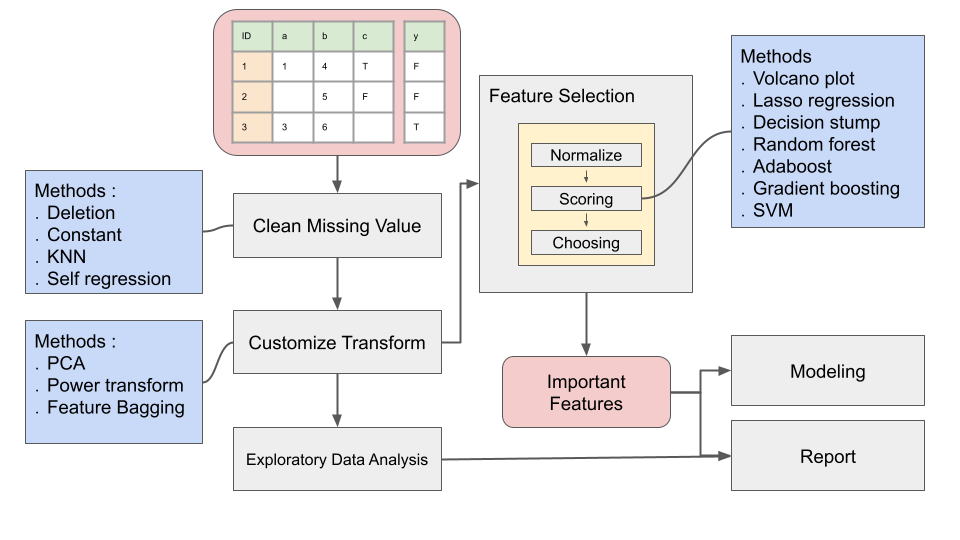
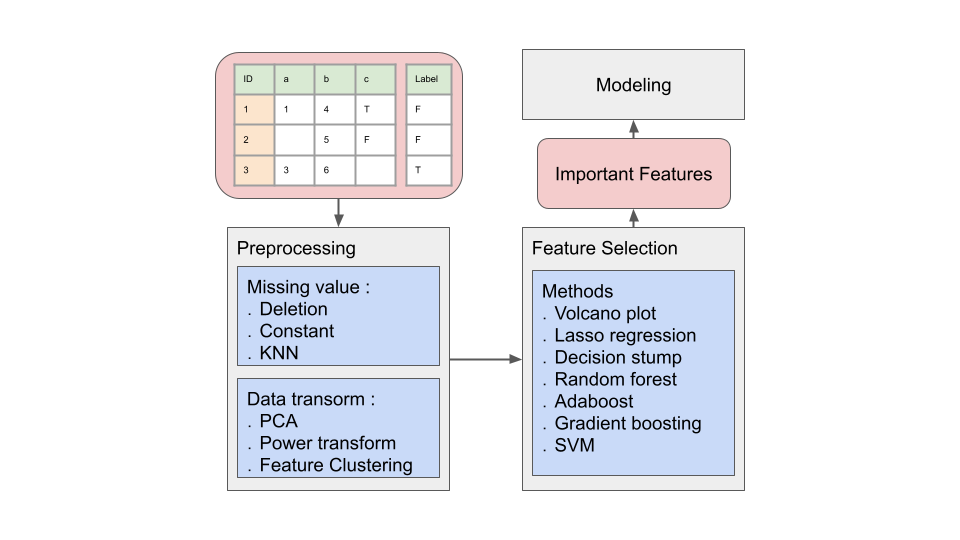
v0.55.1

diff --git a/README.md b/README.md
@@ -1,6 +1,5 @@
 # Overview
-(麻煩用中文寫三百字引言,介紹軟體目的)
-This package aims to help analysis biomedical data using ML method in python.
+This package aims to help analysis biomedical data using ML method in python. 
 
 ![image](./documents/images/workflow/auto_selection_workflow.png) 
 
@@ -45,45 +44,46 @@ The input data should be tabular and placed in the ./input folder. We accept .cs
 
 [API](./documents/API/index.html)
 
-### 1. Missing value imputation
+### 1. Missing value preprocess
 |        ID         |        Option         |  Definition |
 |---------------------|----------------|------------------------------|
-|  1 | Deletion              | Delete the features which are too empty     |
-|  2 | Imputation with a constant value  | Impute missing value with a constant value. For example, 0 or feature mean |
-|  3 | Imputation using K-NN algorithm        | Impute missing value with the mean/median of k nearest samples |
-|  4 | Self regression        |  Training a self regression model to predict the missing value  |
+|  1 | Deletion              | Remove the features that are too empty.     |
+|  2 | Imputation with a constant value  | Impute missing values with a constant value, such as 0 or the feature mean. |
+|  3 | Imputation using K-NN algorithm        | Impute missing values with the mean or median of the k nearest samples. |
 
 
 ### 2. Data transformation
 |        ID         |        Option         |  Definition |
 |---------------------|----------------|------------------------------|
-|  1 | PCA              | Principal component transform    |  |
-|  2 | Power transofmation  | Box-Cox transform or yeo-johnson transform to make data more gaussian-like |   |
-|  3 | Feature bagging        | Put similar features into a bag  |  |
+|  1 | PCA              | Principal component transform.    |  |
+|  2 | Power transform  | To make data more Gaussian-like, you can use either Box-Cox transform or Yeo-Johnson transform. |   |
+|  3 | Feature clustering        | Group similar features into a cluster.  |  |
 
 
 ### 3. Feature Selection
 |        ID         |        Option         |  Definition |
 |---------------------|----------------|------------------------------|
-|  1 | Volcano plot  | Seleting by group p-value or fold change   |  |
-|  2 | Lasso regression | Seleting by L1 penalty |   |
+|  1 | Volcano plot  | Seleting by group p-value and fold change   |  |
+|  2 | Lasso regression | Seleting by Linear models with L1 penalty |   |
 |  3 | Decision stump        | Seleting by 1-layer decision tree  |  |
-|  4 | Random Forest        | Seleting by Gini impuracy or permutation importance over a Random Forest |  |
-|  5 | AdaBoost        | Seleting by Gini impuracy over a AdaBoost model  |  |
-|  6 | Gradient boosting        | Seleting by Gini impuracy over a Gradient boosting such as XGboost or LightGBM  |  |
-|  7 | SVM        | Selectiing by support vector of a trained support vector machine |  |
+|  4 | Random Forest        | Seleting by Gini impurity or permutation importance over a Random Forest |  |
+|  5 | AdaBoost        | Seleting by Gini impurity over a AdaBoost model  |  |
+|  6 | Gradient boosting        | Seleting by Gini impurity over a gradient boosting, such as XGboost or LightGBM  |  |
+|  7 | SVM        | Selectiing by support vector from support vector machine |  |
 
 
 ### 4. Model building
- - hyper parameter tuner (by optuna)
- - 
+ - Single model hyper parameter tuner (by optuna)
+ <!--
+ - H2O
+ - auto sklearn
+ - mljar 
+
 
 ### 5. Report and visualization
-
+-->
 
 # An Example for Program Demonstration    
-
-<請描述你提供的資料內容是甚麼>
 
 Chosse one of the following examples, double click it in jupyter interface:    
 - example_feature_selection.ipynb
